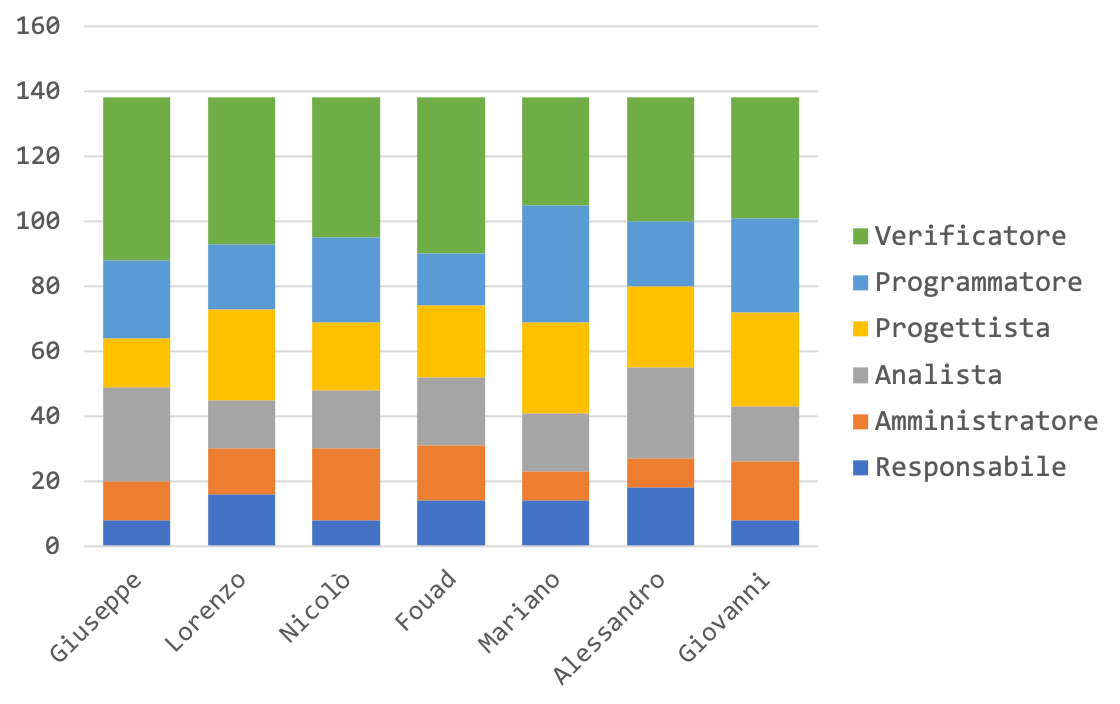
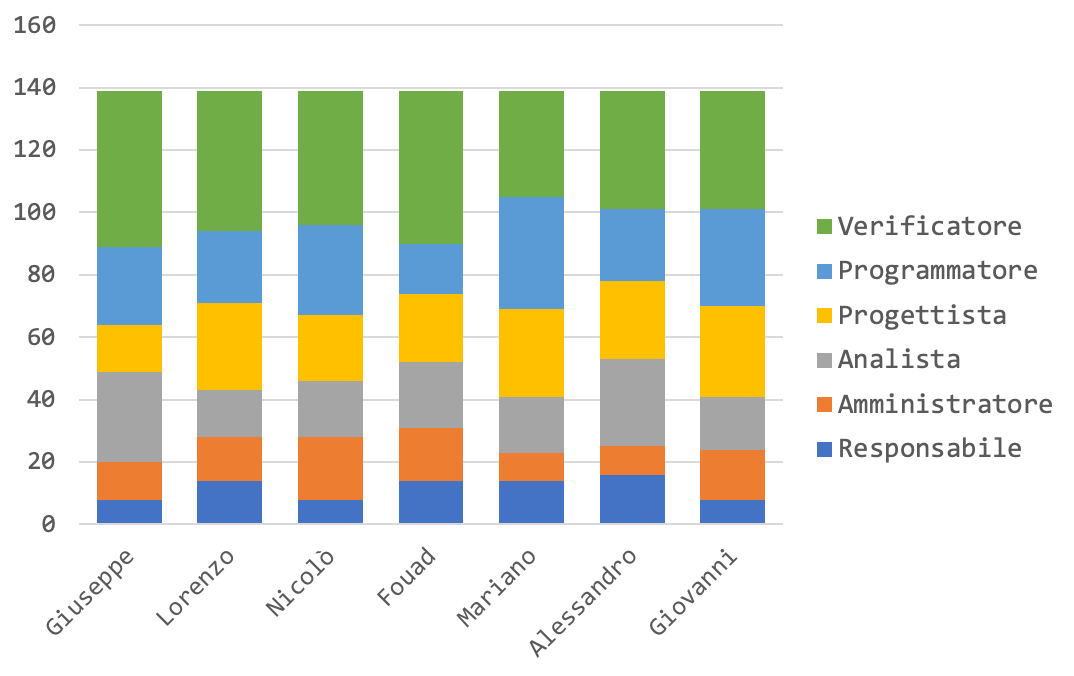
Consuntivo finale

diff --git a/esterni/piano_progetto/res/sections/Sez6-Consuntivo/Consuntivo.tex b/esterni/piano_progetto/res/sections/Sez6-Consuntivo/Consuntivo.tex
@@ -1893,27 +1893,27 @@
 			\endfirsthead
 			
 			\hline
-			Giuseppe Vito Bitetti 		 & 0 & 3 & 2 & 0 & 3 (-1) & 7 (+1) & 15\\
+			Giuseppe Vito Bitetti 		 & 1 (+1) & 2 (-1) & 2 & 0 & 4 & 7 (+1) & 16 (+1)\\
 			\hline
 			\hline
-			Lorenzo Dei Negri			 & 5 & 0 & 0 & 3 & 2 (-3) & 5 (+3) & 15\\
+			Lorenzo Dei Negri			 & 3 (-2) & 0 & 0 & 3 & 5 & 5 (+3) & 16 (+1)\\
 			\hline
 			\hline
-			Nicolò Frison				      & 0 & 4 & 4 & 1 & 2 & 4 & 15\\
+			Nicolò Frison				      & 0 & 2 (-2) & 4 & 1 & 5 (+3) & 4 & 16 (+1)\\
 			\hline
 			\hline
-			Fouad Mouad 				   & 5 & 0 & 2 & 0 & 0 & 8 & 15\\
+			Fouad Mouad 				   & 5 & 0 & 2 & 0 & 0 & 9 (+1) & 16 (+1)\\
 			\hline
 			\hline
-			Mariano Sciacco 			 & 0 & 5 (-1) & 2 & 2 & 5 & 1 (+1) & 15\\
+			Mariano Sciacco 			 & 0 & 5 (-1) & 2 & 2 & 5 & 2 (+2) & 16 (+1)\\
 			\hline
 			\hline
-			Alessandro Tommasin    & 5 & 0 & 3 (-1) & 3 (-1) & 0 & 5 (+2) & 15\\
+			Alessandro Tommasin    & 3 (-2) & 0 & 3  & 3 (-1) & 3 (+3) & 4 (+1) & 16 (+1)\\
 			\hline
 			\hline
-			Giovanni Vidotto 			  & 0 & 6 & 3 & 2 & 2 & 2 & 15\\
+			Giovanni Vidotto 			  & 0 & 4 (-2) & 3 & 2 & 4 (+2) & 3 (+1) & 16 (+1)\\
 			\hline 
-			\textbf{Totale}			 	& 15 & 18 (-1) & 16 & 11 (-1) & 14 (-4) & 61 (+6) & 105\\
+			\textbf{Totale}			 	& 12 (-3) & 13 (-6) & 16 & 11 (-1) & 26 (+8) & 34 (+9) & 112 (+7)\\
 			\hline
 			\caption{Tabella contenente il prospetto orario preventivato per la fase di validazione e collaudo}
 		\end{longtable}
@@ -1939,10 +1939,10 @@
 			\endfirsthead
 			
 			\hline
-			Responsabile 	    & 16 (+1) & 480,00 (+30,00)\\
+			Responsabile 	    & 12 (-3) & 360,00 (-90,00)\\
 			\hline 
 			\hline
-			Amministratore	   & 17 (-2) & 340,00 (-40,00)\\
+			Amministratore	   & 13 (-6) & 260,00 (-120,00)\\
 			\hline
 			\hline
 			Analista 				& 16 & 400,00\\
@@ -1951,12 +1951,12 @@
 			Progettista 		   & 11 (-1) & 242,00 (-22,00)\\
 			\hline
 			\hline
-			Programmatore 	  & 14 (-4) & 210,00 (-60,00)\\
+			Programmatore 	  & 26 (+8) & 390,00 (+120,00)\\
 			\hline
 			\hline
-			Verificatore 		   & 31 (+6) & 465,00 (+90,00)\\
+			Verificatore 		   & 34 (+9) & 510,00 (+135,00)\\
 			\hline
-			\textbf{Totale} 	 & 105 & 2.137,00 (-2,00)\\
+			\textbf{Totale} 	 & 112 (+7 )& 2.162,00 (+23,00)\\
 			\hline
 			\caption{Tabella contenente il prospetto economico in riferimento al prospetto orario}
 		\end{longtable}
@@ -1971,11 +1971,10 @@
 		\end{figure}	
 		
 		\paragraph{Conclusioni}
-		In questa ultima fase sono stati necessari alcuni cambiamenti nella suddivisione oraria dei ruoli, seppur minimi.
-		Visto l'ottimo sviluppo delle componenti negli incrementi precedenti, si ha potuto usufruire di ben quattro ore in meno per il ruolo del programmatore ma, per mantenere il numero di ore prefissate, si è deciso di investirle nel ruolo del verificatore, garantendo quindi una maggiore verifica dei documenti e del codice sviluppato. Il consuntivo rimane in linea con quanto preventivato.
+		TODO
 		
 		\paragraph{Preventivo a finire}
-		Quest'ultima fase è stata portata a termine in modo soddisfacente, il gruppo si ritiene molto soddisfatto per il modo in cui, tutte le fasi del progetto, sono state concluse. Nonostante la ridistribuzione oraria il preventivo a finire rimane in linea con quanto definito in \S5.
+		TODO
 		\pagebreak
 		
 		%=================================================================%
@@ -1994,27 +1993,27 @@
 			\endfirsthead
 			
 			\hline
-			Giuseppe Vito Bitetti 		& 8 & 12 (-2) & 29 (+1) & 15 (+1) & 24 (-2) & 50 (+2) & 138\\
+			Giuseppe Vito Bitetti 		& 8 & 12 (-2) & 29 (+1) & 15 (+1) & 25 (-1) & 50 (+2) & 139 (+1)\\
 			\hline
 			\hline
-			Lorenzo Dei Negri			& 16 (-2) & 14 & 15 (+1) & 28 (-2) & 20 (-3) & 45 (+6) & 138\\
+			Lorenzo Dei Negri			& 14 (-4) & 14 & 15 (+1) & 28 (-2) & 23 & 45 (+6) & 139 (+1)\\
 			\hline
 			\hline
-			Nicolò Frison				    & 8 & 22 (-3) & 18 (+1) & 21 (-1) & 26 (+3) & 43 & 138\\
+			Nicolò Frison				    & 8 & 20 (-5) & 18 (+1) & 21 (-1) & 29 (+6) & 43 & 139 (+1)\\
 			\hline
 			\hline
-			Fouad Mouad 				 & 14 & 17 & 21 & 22 (+1) & 16 (-5) & 48 (+4) & 138\\
+			Fouad Mouad 				 & 14 & 17 & 21 & 22 (+1) & 16 (-5) & 49 (+5) & 139 (+1)\\
 			\hline
 			\hline
-			Mariano Sciacco 			& 14 & 9 (-1) & 18 & 28 (+1) & 36 (+2) & 33 (-2) & 138\\
+			Mariano Sciacco 			& 14 & 9 (-1) & 18 & 28 (+1) & 36 (+2) & 34 (-1) & 139 (+1)\\
 			\hline
 			\hline
-			Alessandro Tommasin    & 18 (-2) & 9 & 28 (+3) & 25 (-3) & 20 (+2) & 38 & 138\\
+			Alessandro Tommasin    & 16 (-4) & 9 & 28 (+3) & 25 (-3) & 23 (+5) & 38 & 139 (+1)\\
 			\hline
 			\hline
-			Giovanni Vidotto 			 & 8 & 18 (-1) & 17 (+1) & 29 (+3) & 29 & 37 (-3) & 138\\
+			Giovanni Vidotto 			 & 8 & 16 (-3) & 17 (+1) & 29 (+3) & 31 (+2) & 38 (-2) & 139 (+1)\\
 			\hline 
-			\textbf{Totale}				 & 86 (-4) & 101 (-7) & 146 (+7) & 168 & 171 (-3) & 294 (+7) & 966\\
+			\textbf{Totale}				 & 82 (-8) & 97 (-11) & 146 (+7) & 168 & 183 (+9) & 297 (+10) & 973 (+7)\\
 			\hline
 			\caption{Tabella contenente il prospetto orario riepilogativo di tutti i periodi trattati in precedenza}
 		\end{longtable}
@@ -2040,10 +2039,10 @@
 			\endfirsthead
 			
 			\hline
-			Responsabile 	    & 86 (-4) & 2.580,00 (-120,00)\\
+			Responsabile 	    & 82 (-8) & 2.460,00 (-240,00)\\
 			\hline 
 			\hline
-			Amministratore	  & 101 (-7) & 2.020,00 (-140,00)\\
+			Amministratore	  & 97 (-11) & 1.940,00 (-220,00)\\
 			\hline
 			\hline
 			Analista 				& 146 (+7) & 3.650,00 (+175,00)\\
@@ -2052,12 +2051,12 @@
 			Progettista 		  & 168 & 3.696,00\\
 			\hline
 			\hline
-			Programmatore 	 & 171 (-3) & 2.565,00 (-45,00)\\
+			Programmatore 	 & 183 (+9) & 2.745,00 (+135,00)\\
 			\hline
 			\hline
-			Verificatore 		  & 294 (+7) & 4.410,00 (+105,00)\\
+			Verificatore 		  & 297 (+10) & 4.455,00 (+150,00)\\
 			\hline
-			\textbf{Totale} 	& 966 & 18.921,00 (-25,00)\\
+			\textbf{Totale} 	& 973 (+7) & 18.946,00 \\
 			\hline
 			\caption{Tabella contenente il prospetto economico in riferimento al prospetto orario}
 		\end{longtable}
@@ -2084,27 +2083,27 @@
 			\endfirsthead
 			
 			\hline
-			Giuseppe Vito Bitetti 		& 8 & 4 (-1) & 14 & 15 (+1) & 24 (-2) & 38 (+2) & 103\\
+			Giuseppe Vito Bitetti 		& 8 & 4 (-1) & 14 & 15 (+1) & 25 (-1) & 38 (+2) & 104 (+1)\\
 			\hline
 			\hline
-			Lorenzo Dei Negri			& 10 & 9 & 1 & 28 (-2) & 20 (-3) & 35 (+5) & 103\\
+			Lorenzo Dei Negri			& 8 (-2)  & 9 & 1 & 28 (-2) & 23 & 35 (+5) & 104 (+1)\\
 			\hline
 			\hline
-			Nicolò Frison				    & 8 & 14 (-1) & 9 & 21 (-1) & 26 (+3) & 25 (-1) & 103\\
+			Nicolò Frison				    & 8 & 12 (-3) & 9 & 21 (-1) & 28 (+5) & 25 (-1) & 104 (+1)\\
 			\hline
 			\hline
-			Fouad Mouad 				 & 13 (+1) & 10 & 9 (-1) & 22 (+1) & 16 (-5) & 33 (+4) & 103\\
+			Fouad Mouad 				 & 13 (+1) & 10 & 9 (-1) & 22 (+1) & 16 (-5) & 34 (+5) & 104 (+1)\\
 			\hline
 			\hline
-			Mariano Sciacco 			& 6 & 9 (-1) & 3 & 28 (+1) & 36 (+2) & 21 (-2) & 103\\
+			Mariano Sciacco 			& 6 & 9 (-1) & 3 & 28 (+1) & 36 (+2) & 22 (-1) & 104 (+1)\\
 			\hline
 			\hline
-			Alessandro Tommasin    & 9 & 9 & 11 & 25 (-3) & 20 (+2) & 29 (+1) & 103\\
+			Alessandro Tommasin    & 7 (-2) & 9 & 11 & 25 (-3) & 23 (+5) & 29 (+1) & 104 (+1)\\
 			\hline
 			\hline
-			Giovanni Vidotto 			 & 6 & 12 & 8 & 29 (+3) & 29 & 19 (-3) & 103\\
+			Giovanni Vidotto 			 & 6 & 10 (-2) & 8 & 29 (+3) & 31 (+2) & 20 (-2) & 104 (+1)\\
 			\hline 
-			\textbf{Totale}				 & 60 (+1) & 67 (-3) & 55 (-1) & 168 & 171 (-3) & 200 (+6) & 721\\
+			\textbf{Totale}				 & 56 (-3) & 63 (-7) & 55 (-1) & 168 & 183 (+9) & 203 (+9) & 728 (+7)\\
 			\hline
 			\caption{Tabella contenente il prospetto orario preventivato a carico del committente}
 		\end{longtable}
@@ -2130,10 +2129,10 @@
 			\endfirsthead
 			
 			\hline
-			Responsabile 	    & 60 (+1) & 1.800,00 (+30,00)\\
+			Responsabile 	    & 56 (-3) & 1.680,00 (-90,00)\\
 			\hline 
 			\hline
-			Amministratore	  & 67 (-3) & 1.340,00 (-60,00)\\
+			Amministratore	  & 63 (-7) & 1.260,00 (-140,00)\\
 			\hline
 			\hline
 			Analista 				& 55 (-1) & 1.375,00 (-25,00)\\
@@ -2142,12 +2141,12 @@
 			Progettista 		  & 168 & 3.696,00\\
 			\hline
 			\hline
-			Programmatore 	 & 171 (-3) & 2.565,00 (-45,00)\\
+			Programmatore 	 & 183 (+9) & 2.745,00 (+135,00)\\
 			\hline
 			\hline
-			Verificatore 		  & 200 (+6) & 3.000,00 (+90,00)\\
+			Verificatore 		  & 203 (+9) & 3.045,00 (+135,00)\\
 			\hline
-			\textbf{Totale} 	& 721 & 13.776,00 (-10,00)\\
+			\textbf{Totale} 	& 728 (+7) & 13.801,00 (+15,00)\\
 			\hline
 			\caption{Tabella contenente il prospetto economico in riferimento al prospetto orario}
 		\end{longtable}
@@ -2168,8 +2167,7 @@
 		
 		DA CONTINUARE
 	
-		Il costo totale preventivato dal gruppo per lo sviluppo del progetto ammonta a 13.776,00 €.
-		\pagebreak
+		Il costo totale per lo sviluppo del progetto ammonta a 13.801,00 €.
 				
 		%=================================================================%
 		
@@ -2226,15 +2224,15 @@
 			 	Incremento XI & 740,00 & 747,00 & +7\\
 			 	\hline
 			 	\hline
-			 	Incremento XII & 1.224,00 & 1224,00 & -\\
+			 	Incremento XII & 1.224,00 & 1.224,00 & -\\
 			 	\hline
 		 		\hline
-			 	Validazione e collaudo & 2.139,00 & 2137,00 & -2,00\\
+			 	Validazione e collaudo & 2.139,00 & 2.162,00 & +23,00\\
 			 	\hline
-			 	\textbf{Totale rendicontato} & 13.786,00 & 13.776,00 & -10,00\\
+			 	\textbf{Totale rendicontato} & 13.786,00 & 13.801,00 & +15,00\\
 			 	\hline
 			 	\hline
-			 	\textbf{Totale} & 18.946,00 & 18.921,00 & -25,00\\
+			 	\textbf{Totale} & 18.946,00 & 18.946,00 & -\\
 			 	\hline
 			 	\caption{Tabella contenente il preventivo a finire}
 			 \end{longtable}
